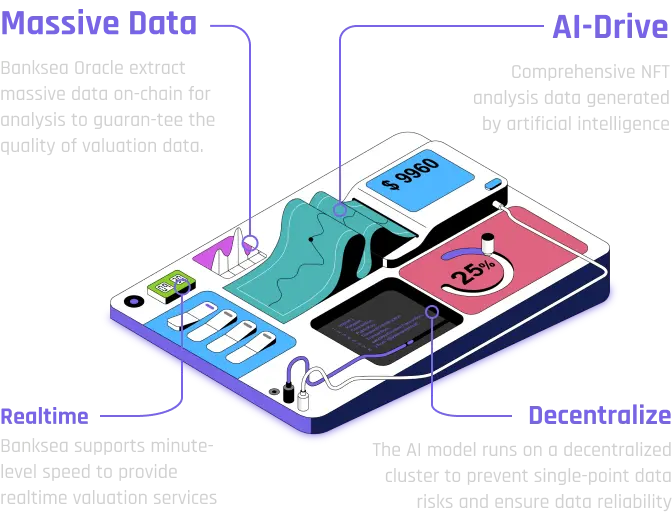
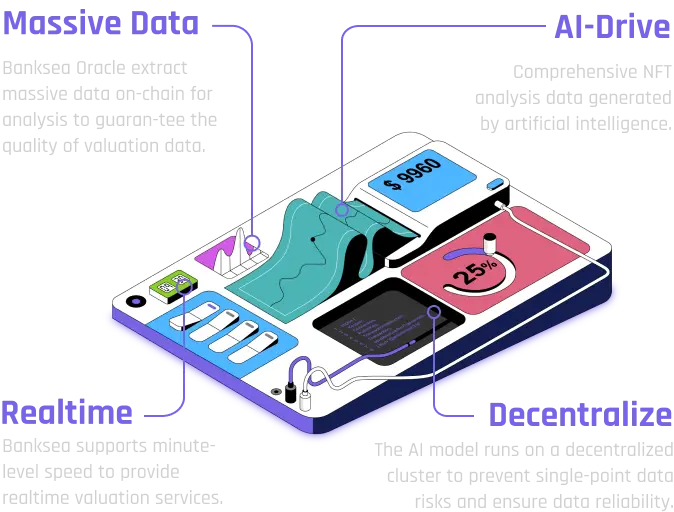
feat: optimize visuals
1. API price page documents
2. develop first screen font size
3. features image source

diff --git a/src/pages/home/modules/use-cases/index.tsx b/src/pages/home/modules/use-cases/index.tsx
@@ -12,6 +12,7 @@ const UseCasesContainer = styled.div`
   span {
     color: white;
     font-family: ${({ theme }) => theme.fontFamilies.common};
+    font-weight: 600;
 
     background-color: rgb(120, 100, 230);
     display: flex;
@@ -154,35 +155,26 @@ const items = [
     id: 'lending',
     label: 'Lending',
     description: 'Banksea provides safe and reasonable solutions for NFT lending with the valuation of NFTs and Collections, and monitors the market in real time to minimize the risk of lending.',
-    tooltipPosition: 'bottom',
-    offsetX: -100
   },
   {
     id: 'marketplace',
     label: 'Marketplace',
     description: 'Banksea provides secure, objective, and real-time data analysis and NFT valuation for users to formulate better trading strategies in the marketplace.',
-    tooltipPosition: 'bottom',
-    offsetX: 100
   },
   {
     id: 'music',
     label: 'Music',
-    description: 'Banksea is exploring and researching music NFT and can customize the data analysis and valuation services for music NFTs.',
-    tooltipPosition: 'top',
-    offsetX: 120
+    description: 'Banksea can customize the data analysis and valuation services for music NFTs.',
   },
   {
     id: 'meta-verse',
     label: 'MetaVerse',
     description: 'As the infrastructure in the metaverse, Banksea will build a bridge between the virtual and real world for value measurement, providing more connections and possibilities for the two worlds.',
-    tooltipPosition: 'top',
   },
   {
     id: 'wallet',
     label: 'Wallet',
     description: 'Banksea has established in-depth cooperation with NFT wallet project to provide comprehensive analysis of NFTs, such as traits analysis, rarity analysis, popularity analysis, transaction analysis, real-time valuation, etc. It is convenient for users to analyze the status of assets directly on the wallet.',
-    tooltipPosition: 'top',
-    offsetX: -80
   },
   {
     id: 'banksea-oracle',
@@ -234,6 +226,10 @@ export const UseCasesModule: React.FC = () => {
                 >
                   <Tooltip
                     visible={hoveredIdRef.current === id || (hoveredIdRef.current === undefined && id === ids[visibleIndex])}
+                    overlayInnerStyle={{
+                      background: '#37373799',
+                      borderRadius: '20px'
+                    }}
                     overlay={
                       <Flex flexDirection={'column'} ai={'center'}>
                         <Text fontSize={'24px'}>{label}</Text>

diff --git a/src/pages/product/index.tsx b/src/pages/product/index.tsx
@@ -86,7 +86,7 @@ const PLANS: Array<ProductPricePlanCardProps> = [
     variant: 'disabled',
     price: 'Free',
     credits: '10,000',
-    description: <span>Interact with our powerful API for free with our <b>Discover Plan</b>. Great for traders tracking nft.</span>,
+    description: <span>Interact with our powerful API for free with our <b>Discovery Plan</b>. Great for traders tracking nft.</span>,
     supportedDimensions: [
       { label: 'Auto Scaling', supported: false },
       { label: '25 Requests / sec', supported: true },
@@ -124,7 +124,7 @@ export const ProductPage: React.FC = () => {
   return (
     <PageWrapper py={'48px'}>
       <Text
-        fontSize={'min(48px, 8vw)'}
+        fontSize={'min(45px, 6vw)'}
         textAlign={'center'}
         mb={'16px'}
         maxWidth={'1200px'}
@@ -132,11 +132,11 @@ export const ProductPage: React.FC = () => {
         important
         fontWeight={600}
       >
-        Simple, Metadata, Activity, AI analysis design for you
+        Metadata, Activity, AI analysis designed for you
       </Text>
 
       <Text color={'textDisabled'} mb={'64px'} maxWidth={'600px'} textAlign={'center'}>
-        With our plan, builders get access to the platform - popularity, market cap, NFT metadata, activity, NFT AI valuation, AI floor - and only pay for what you use.
+        You can access the service - popularity, market cap, NFT metadata, Transaction, NFT AI valuation, AI floor price etc, and only pay for what you use.
       </Text>
 
       <Grid

diff --git a/src/pages/home/modules/features/index.tsx b/src/pages/home/modules/features/index.tsx
@@ -3,15 +3,6 @@ import { Flex, useResponsive } from '@banksea-finance/ui-kit'
 import { ModuleTitle } from '@/components/module-title'
 import styled from 'styled-components'
 
-export const features = {
-  massiveData: 'Massive Data',
-  aiDrive: 'AI Drive',
-  decentralize: 'Decentralize',
-  realtime: 'Realtime'
-} as const
-
-export type FeatureKey = keyof typeof features
-
 const ImageContainer = styled.div`
   --mobile-image-height: 80vw;
   --mobile-image-width: calc(var(--mobile-image-height) * 2.05);
@@ -21,7 +12,6 @@ const ImageContainer = styled.div`
   img {
     width: 100%;
   }
-  
 `
 
 export const FeaturesModule: React.FC = () => {

diff --git a/src/pages/develop/modules/first-screen/index.tsx b/src/pages/develop/modules/first-screen/index.tsx
@@ -55,7 +55,7 @@ const Title: React.FC = () => {
   const CommonText = ({ children }: any) => (
     <Text
       as={'span'}
-      fontSize={{ xl: 'min(50px, 3.33vw)', _: 'min(50px, 5.0vw)' }}
+      fontSize={{ xl: 'min(50px, 3.03vw)', _: 'min(50px, 5.0vw)' }}
       important
       bold
       lineHeight={'1.5'}

diff --git a/src/pages/home/modules/first-screen/index.tsx b/src/pages/home/modules/first-screen/index.tsx
@@ -78,7 +78,7 @@ export const FirstScreenModule: React.FC = () => {
 
           <Text
             bold
-            color={'primary'}
+            color={'rgb(222,221,227)'}
             mb={{ lg: '42px', _: '36px' }}
             mt={{ lg: '36px', _: '24px' }}
             fontSize={'min(24px, 5vw)'}
